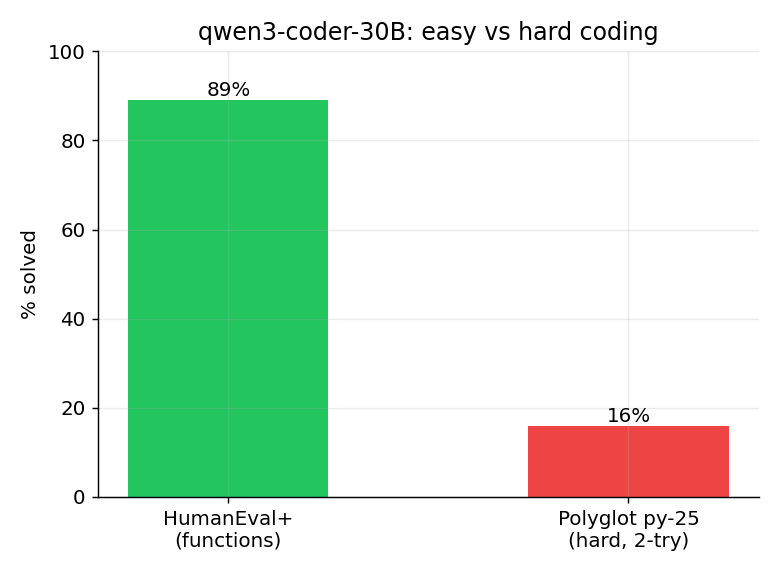
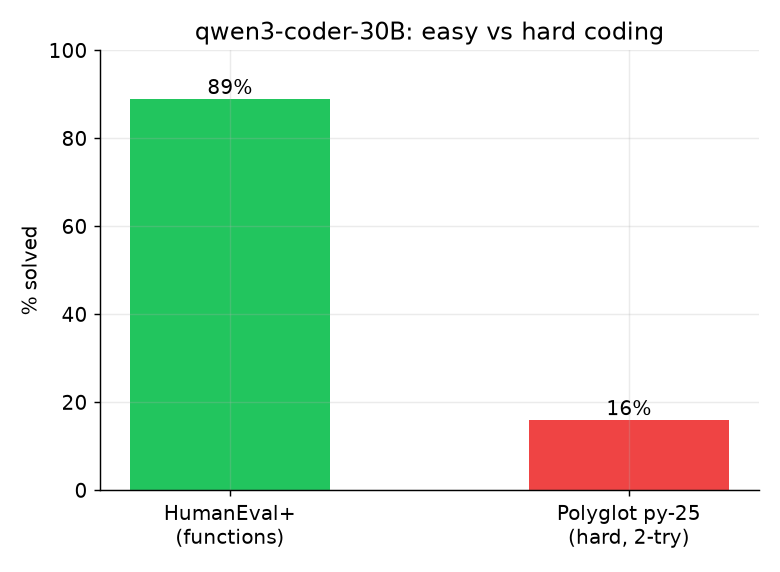
Regenerate speed graphs 04/05 with Qwen3.6 included
fase4_graphs.py is now self-contained (numbers hardcoded from SPEED-CONTEXT.md,
no WSL JSON dependency). Adds Qwen3.6-35B-A3B to graph 04 (generation speed by
model -- now the tallest bar at 57.6 t/s) and graph 05 (context scaling -- top
line, flattest 0->32K). Bumped graph 05 y-limit 55->70 to fit it.

diff --git a/scripts/fase4_graphs.py b/scripts/fase4_graphs.py
@@ -1,61 +1,50 @@
-import json, os, matplotlib
+import os, matplotlib
 matplotlib.use("Agg")
 import matplotlib.pyplot as plt
-import numpy as np
-SC  = "/home/dev/llm/eval/results/speed-context"
+# Self-contained: numbers are the published, measured values from SPEED-CONTEXT.md
+# (llama-bench, idle RTX 5060 Ti 16GB; qwen3-coder-30B via ollama num_ctx sweep).
+# tg = generation tokens/sec at context depth.  Regenerates graphs 04, 05, 06.
 OUT = "/mnt/d/Repositories/local-llm/local-llm-coding-eval/graphs"; os.makedirs(OUT, exist_ok=True)
 plt.rcParams.update({"figure.dpi":130,"font.size":11,"axes.grid":True,"grid.alpha":0.25,
    "axes.spines.top":False,"axes.spines.right":False,"figure.autolayout":True})
 
-def load(name):
-    p=f"{SC}/{name}.json"
-    if not os.path.exists(p): return None
-    d=json.load(open(p)); pp={}; tg={}
-    for r in d:
-        if r["n_prompt"]==512 and r["n_gen"]==0: pp[r["n_depth"]]=round(r["avg_ts"],1)
-        if r["n_gen"]==128 and r["n_prompt"]==0: tg[r["n_depth"]]=round(r["avg_ts"],1)
-    return {"pp":pp,"tg":tg}
+DATA = {
+  "gemma-4-it\nQ4":               {"tg":{0:45.7,4096:43.2,16384:45.4,32768:41.8}, "c":"#a78bfa"},
+  "Qwen3-14B\nQ4":                {"tg":{0:39.1,4096:43.2,16384:34.0,32768:23.0}, "c":"#0ea5e9"},
+  "gemma4coder\nQ6":              {"tg":{0:38.8,4096:37.9,16384:36.4,32768:29.2}, "c":"#7c3aed"},
+  "gemma4coder\nQ8":              {"tg":{0:31.2,4096:26.2,16384:25.6,32768:24.6}, "c":"#6d28d9"},
+  "qwen3-coder-30B\nQ4 (ollama)": {"tg":{4096:42.5,16384:35.1,32768:34.2},        "c":"#0284c7"},
+  "Qwen3.6-35B-A3B\nQ3_K_XL":     {"tg":{0:57.6,4096:51.0,16384:49.9,32768:53.3}, "c":"#10b981"},
+}
 
-M = {"gemma-4-it-Q4":load("gemma-4-it-Q4"),
-     "gemma4coder-Q6":load("gemma4coder-Q6"),
-     "gemma4coder-Q8":load("gemma4coder-Q8"),
-     "qwen3-14b-Q4":load("qwen3-14b-Q4")}
-QC_TG = {4096:42.5, 16384:35.1, 32768:34.2}   # qwen3-coder-30B via ollama sweep
-
-print("== SPEED/CONTEXT (t/s) ==")
-print(f"{'model':18s} pp512@0  tg@0  tg@4k tg@16k tg@32k")
-for m,v in M.items():
-    if not v: print(f"{m:18s} (sem json)"); continue
-    print(f"{m:18s} {v['pp'].get(0,0):7.0f} {v['tg'].get(0,0):5.1f} {v['tg'].get(4096,0):5.1f} {v['tg'].get(16384,0):6.1f} {v['tg'].get(32768,0):6.1f}")
-print(f"{'qwen3-coder-30B':18s}     -     -  {QC_TG[4096]:5.1f} {QC_TG[16384]:6.1f} {QC_TG[32768]:6.1f}")
-
-# ---- graph 04: tg128 (generation) by model ----
-order=["gemma-4-it-Q4","qwen3-14b-Q4","gemma4coder-Q6","gemma4coder-Q8"]
-labels=["gemma-4-it\nQ4","Qwen3-14B\nQ4","gemma4coder\nQ6","gemma4coder\nQ8","qwen3-coder-30B\nQ4 (ollama)"]
-vals=[M[m]["tg"].get(0,0) for m in order]+[QC_TG[4096]]
-fig,ax=plt.subplots(figsize=(7.5,4.4))
-cols=["#a78bfa","#0ea5e9","#7c3aed","#6d28d9","#0284c7"]
-b=ax.bar(labels,vals,color=cols,width=0.6)
+# ---- graph 04: generation speed by model (tg @ depth 0; 30B has no depth-0 -> its 4K point) ----
+labels=list(DATA.keys())
+vals=[d["tg"].get(0, d["tg"].get(4096,0)) for d in DATA.values()]
+cols=[d["c"] for d in DATA.values()]
+fig,ax=plt.subplots(figsize=(9,4.7))
+b=ax.bar(labels,vals,color=cols,width=0.62)
 ax.set_ylabel("generation tokens/sec"); ax.set_title("Generation speed by model — RTX 5060 Ti 16GB")
+ax.tick_params(axis="x", labelsize=8)
 for r in b: ax.annotate(f"{r.get_height():.1f}",(r.get_x()+r.get_width()/2,r.get_height()),ha="center",va="bottom",fontsize=9)
 fig.savefig(f"{OUT}/04_speed_by_model.png"); plt.close(fig)
 
 # ---- graph 05: context scaling (tg vs depth) ----
-fig,ax=plt.subplots(figsize=(7.5,4.6))
+fig,ax=plt.subplots(figsize=(8,4.8))
 depths=[0,4096,16384,32768]
-for m,c in zip(order,["#a78bfa","#0ea5e9","#7c3aed","#6d28d9"]):
-    ys=[M[m]["tg"].get(d) for d in depths]
-    ax.plot([d//1024 for d in depths],ys,"o-",label=m,color=c)
-ax.plot([4,16,32],[QC_TG[4096],QC_TG[16384],QC_TG[32768]],"s--",label="qwen3-coder-30B (ollama)",color="#0284c7")
+for name,d in DATA.items():
+    lbl=name.replace("\n"," ")
+    if "30B" in name:
+        ax.plot([4,16,32],[d["tg"][4096],d["tg"][16384],d["tg"][32768]],"s--",label=lbl,color=d["c"])
+    else:
+        ax.plot([x//1024 for x in depths],[d["tg"].get(x) for x in depths],"o-",label=lbl,color=d["c"])
 ax.set_xlabel("context depth (K tokens)"); ax.set_ylabel("generation tokens/sec")
-ax.set_title("Context scaling — tg128 vs context depth"); ax.legend(fontsize=8); ax.set_ylim(0,55)
+ax.set_title("Context scaling — tg128 vs context depth"); ax.legend(fontsize=8); ax.set_ylim(0,70)
 fig.savefig(f"{OUT}/05_context_scaling.png"); plt.close(fig)
 
-# ---- graph 06: easy vs hard (qwen3-coder) ----
+# ---- graph 06: easy vs hard (qwen3-coder) — unchanged ----
 fig,ax=plt.subplots(figsize=(6,4.4))
 b=ax.bar(["HumanEval+\n(functions)","Polyglot py-25\n(hard, 2-try)"],[89.0,16.0],color=["#22c55e","#ef4444"],width=0.5)
-ax.set_ylabel("% solved"); ax.set_ylim(0,100)
-ax.set_title("qwen3-coder-30B: easy vs hard coding")
+ax.set_ylabel("% solved"); ax.set_ylim(0,100); ax.set_title("qwen3-coder-30B: easy vs hard coding")
 for r in b: ax.annotate(f"{r.get_height():.0f}%",(r.get_x()+r.get_width()/2,r.get_height()),ha="center",va="bottom")
 fig.savefig(f"{OUT}/06_easy_vs_hard.png"); plt.close(fig)
 